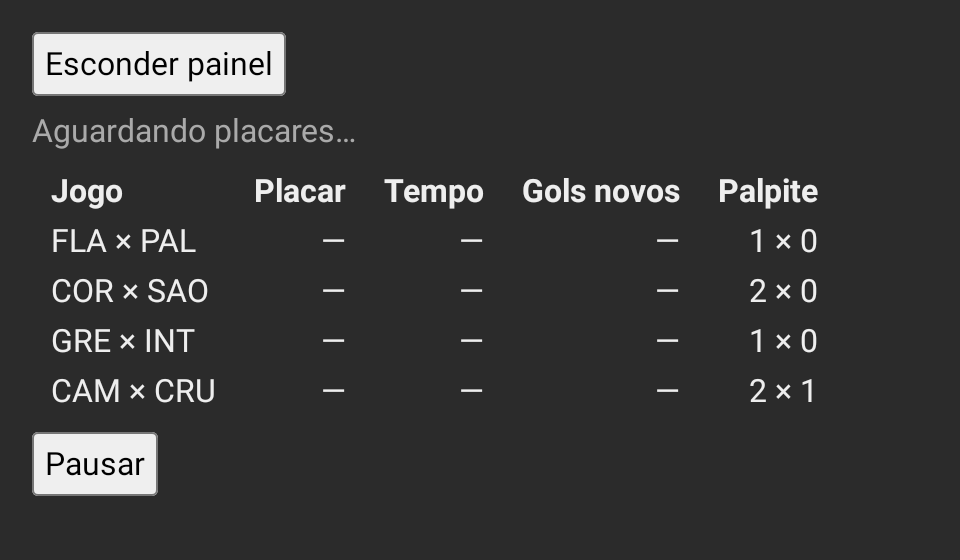
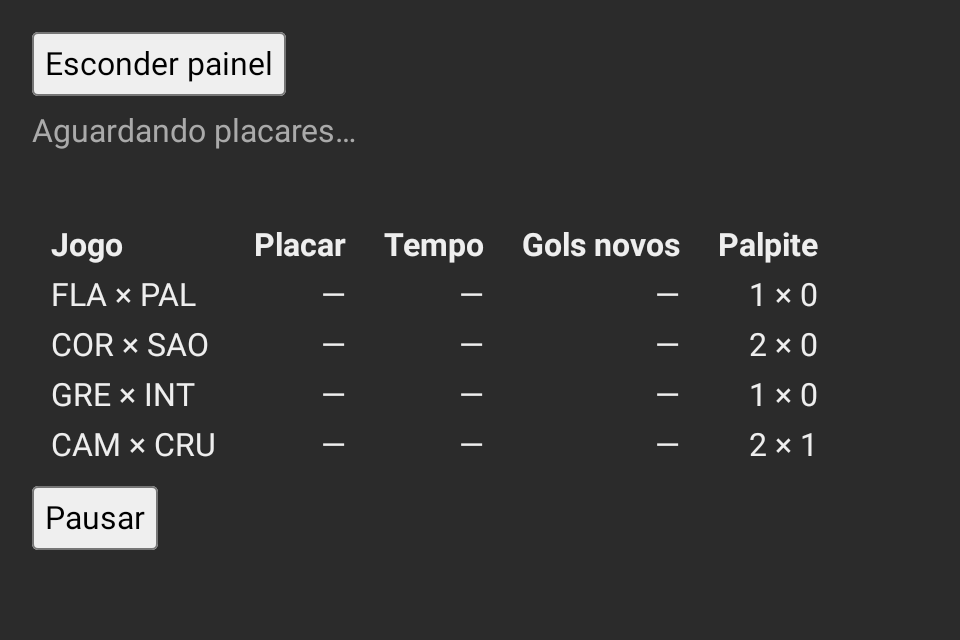
Mostra o "Atualizado há N s" no Compose dos Dados ao vivo
O Compose falha nas verificações do "Atualizado há" que a
especificação passou a pedir: não mostra há quanto tempo chegou o
último lote, e o painel não tem relógio para fechar ao sair da tela.

Como no React, a hora da chegada do lote e a do último tique são
estado (mutableStateOf), e o texto se deriva das duas a cada vez que a
função roda. O relógio fica num DisposableEffect(Unit), separado do
efeito da inscrição, que depende de pausado: como o useEffect com [],
o onDispose o para só quando o painel sai da tela. A hora do tique se
chama ultimoTique, e não agora, para não esconder a função agora() do
domínio. O componente Atualizacao do Estilo.kt tem a cor da Situacao,
numa constante das duas, como a regra .situacao, .atualizacao do
estilo.css.

Como no Views, as cenas passam de 280dp para 320dp de altura nos
quatro testes do módulo, para a linha a mais caber sem cortar o botão
de pausa, e o SegundoPlanoTest e o RotacaoTest conferem também o
relógio. Em segundo plano, o relógio do Compose segue aberto, como a
inscrição, e o README.org da interface passa a dizer o contraste com o
Views pelos dois.

Conferido: os testes do módulo passam, com as 19 verificações; sem o
close() no onDispose do relógio, falham 2, 3, 9 e 11, e sem a hora da
chegada, as quatro do "Atualizado há". As capturas mostram o mesmo que
as do Views; o aviso de que as duas diferem vem do desenho do texto e
já saía no master.

Closes: tcc-51hf

diff --git a/implementacoes/dados-ao-vivo/android-compose/src/test/java/tcc/dadosaovivo/compose/SegundoPlanoTest.kt b/implementacoes/dados-ao-vivo/android-compose/src/test/java/tcc/dadosaovivo/compose/SegundoPlanoTest.kt
@@ -9,15 +9,16 @@ import org.junit.runner.RunWith
 import org.robolectric.annotation.Config
 import tcc.dadosaovivo.RelogioFalso
 import tcc.dadosaovivo.contarInscricoes
+import tcc.dadosaovivo.contarRelogios
 
 // A tela em segundo plano, que a especificação não cobre e em que as duas
 // tecnologias diferem (ADR 0005; docs/achados-das-implementacoes.md): no
 // Compose, o DisposableEffect vive com a composição, que continua com a
-// Activity parada; a inscrição segue aberta, os lotes seguem chegando, e de
-// volta os gols novos contam desde o último lote recebido em segundo plano.
-// No Views, o onStop a fecha.
+// Activity parada; a inscrição e o relógio seguem abertos, os lotes seguem
+// chegando, e de volta os gols novos contam desde o último lote recebido em
+// segundo plano. No Views, o onStop fecha os dois.
 @RunWith(AndroidJUnit4::class)
-@Config(qualifiers = "w480dp-h280dp-xhdpi")
+@Config(qualifiers = "w480dp-h320dp-xhdpi")
 class SegundoPlanoTest {
     @get:Rule(order = 0) val relogio = RelogioFalso()
 
@@ -29,13 +30,24 @@ class SegundoPlanoTest {
     fun segundoPlanoMantemAInscricao() {
         tela.avancar(1000)
         tela.irParaSegundoPlano()
-        val emSegundoPlano = contarInscricoes()
+        val emSegundoPlano = listOf(contarInscricoes(), contarRelogios())
         relogio.avancar(3000)
         tela.voltarDoSegundoPlano()
+        val aoVoltar = tela.atualizacao()
         tela.avancar(1000)
         assertEquals(
-            listOf(1, 1, "FLA × PAL | 1 × 0 | 5' | = | 1 × 0"),
-            listOf(emSegundoPlano, contarInscricoes(), tela.linhas()[0]),
+            listOf(
+                listOf(1, 1),
+                "Atualizado há 0 s",
+                listOf(1, 1),
+                "FLA × PAL | 1 × 0 | 5' | = | 1 × 0",
+            ),
+            listOf(
+                emSegundoPlano,
+                aoVoltar,
+                listOf(contarInscricoes(), contarRelogios()),
+                tela.linhas()[0],
+            ),
         )
     }
 }

diff --git a/implementacoes/dados-ao-vivo/android-compose/src/main/java/tcc/dadosaovivo/compose/MainActivity.kt b/implementacoes/dados-ao-vivo/android-compose/src/main/java/tcc/dadosaovivo/compose/MainActivity.kt
@@ -17,9 +17,12 @@ import androidx.compose.ui.semantics.semantics
 import tcc.dadosaovivo.JOGOS
 import tcc.dadosaovivo.Lote
 import tcc.dadosaovivo.MENSAGENS
+import tcc.dadosaovivo.agora
+import tcc.dadosaovivo.formatarAtualizacao
 import tcc.dadosaovivo.formatarPlacar
 import tcc.dadosaovivo.formatarTempo
 import tcc.dadosaovivo.golsNovos
+import tcc.dadosaovivo.iniciarRelogio
 import tcc.dadosaovivo.inscreverNosPlacares
 import tcc.dadosaovivo.noPalpite
 
@@ -41,6 +44,9 @@ fun PainelDePlacares() {
     // Os dois últimos lotes: o atual dá o placar, o anterior, os gols novos.
     var anterior by remember { mutableStateOf<Lote?>(null) }
     var atual by remember { mutableStateOf<Lote?>(null) }
+    // A hora em que chegou o último lote e a do último tique do relógio.
+    var chegada by remember { mutableStateOf<Long?>(null) }
+    var ultimoTique by remember { mutableStateOf(agora()) }
 
     // Como o useEffect com [pausado]: roda de novo quando pausado se altera,
     // e o onDispose cancela a inscrição antes disso e quando o painel sai da
@@ -50,8 +56,16 @@ fun PainelDePlacares() {
         val inscricao = inscreverNosPlacares { lote ->
             anterior = atual
             atual = lote
+            chegada = agora()
         }
         onDispose { inscricao.close() }
+    }
+
+    // O relógio vive com o painel, e não com a inscrição: como o useEffect
+    // com [], o onDispose o para só quando o painel sai da tela.
+    DisposableEffect(Unit) {
+        val relogio = iniciarRelogio { ultimoTique = agora() }
+        onDispose { relogio.close() }
     }
 
     val situacao =
@@ -64,6 +78,7 @@ fun PainelDePlacares() {
             situacao,
             Modifier.semantics { liveRegion = LiveRegionMode.Polite },
         )
+        Atualizacao(formatarAtualizacao(chegada, ultimoTique))
         Tabela {
             Cabecalho {
                 Celula("Jogo")

diff --git a/implementacoes/dados-ao-vivo/android-compose/src/test/java/tcc/dadosaovivo/compose/RotacaoTest.kt b/implementacoes/dados-ao-vivo/android-compose/src/test/java/tcc/dadosaovivo/compose/RotacaoTest.kt
@@ -9,12 +9,13 @@ import org.junit.runner.RunWith
 import org.robolectric.annotation.Config
 import tcc.dadosaovivo.RelogioFalso
 import tcc.dadosaovivo.contarInscricoes
+import tcc.dadosaovivo.contarRelogios
 
 // A rotação, que a especificação não cobre: o Android recria a Activity, a
-// inscrição da tela antiga fecha, e o painel recomeça como se a interface
-// abrisse, sem a pausa nem os valores, também depois de escondido.
+// inscrição e o relógio da tela antiga fecham, e o painel recomeça como se a
+// interface abrisse, sem a pausa nem os valores, também depois de escondido.
 @RunWith(AndroidJUnit4::class)
-@Config(qualifiers = "w480dp-h280dp-xhdpi")
+@Config(qualifiers = "w480dp-h320dp-xhdpi")
 class RotacaoTest {
     @get:Rule(order = 0) val relogio = RelogioFalso()
 
@@ -28,18 +29,24 @@ class RotacaoTest {
         tela.pausa()
         tela.recriar()
         assertEquals(
-            listOf("Aguardando placares…", "Pausar", 1),
-            listOf(tela.situacao(), tela.textoDaPausa(), contarInscricoes()),
+            listOf("Aguardando placares…", "Pausar", 1, 1),
+            listOf(
+                tela.situacao(),
+                tela.textoDaPausa(),
+                contarInscricoes(),
+                contarRelogios(),
+            ),
         )
 
         tela.alternar()
         tela.recriar()
         assertEquals(
-            listOf(true, "Esconder painel", 1),
+            listOf(true, "Esconder painel", 1, 1),
             listOf(
                 tela.painelNaPagina(),
                 tela.textoDoAlternar(),
                 contarInscricoes(),
+                contarRelogios(),
             ),
         )
     }

diff --git a/implementacoes/dados-ao-vivo/android-compose/src/main/java/tcc/dadosaovivo/compose/Estilo.kt b/implementacoes/dados-ao-vivo/android-compose/src/main/java/tcc/dadosaovivo/compose/Estilo.kt
@@ -35,8 +35,9 @@ import androidx.compose.ui.unit.dp
 import androidx.compose.ui.unit.sp
 
 // Aparência dos Dados ao vivo, no papel do estilo.css da web: a tela só usa
-// os nomes daqui (Tema, Placares, Painel, Situacao, Tabela, Cabecalho, Linha,
-// Celula, Botao), como o className. O tr.alerta vira parâmetro da Linha.
+// os nomes daqui (Tema, Placares, Painel, Situacao, Atualizacao, Tabela,
+// Cabecalho, Linha, Celula, Botao), como o className. O tr.alerta vira
+// parâmetro da Linha.
 
 private val texto = Color(0xFFEEEEEE)
 
@@ -77,10 +78,19 @@ fun Painel(conteudo: @Composable ColumnScope.() -> Unit) {
     Column(verticalArrangement = Arrangement.spacedBy(8.dp), content = conteudo)
 }
 
+// .situacao, .atualizacao: a regra comum às duas.
+private val cinza = Color(0xFFAAAAAA)
+
 // .situacao
 @Composable
 fun Situacao(mensagem: String, modifier: Modifier = Modifier) {
-    Text(mensagem, modifier, color = Color(0xFFAAAAAA))
+    Text(mensagem, modifier, color = cinza)
+}
+
+// .atualizacao
+@Composable
+fun Atualizacao(texto: String) {
+    Text(texto, color = cinza)
 }
 
 // O fundo que cada linha põe antes das células, para a Tabela achar onde a

diff --git a/implementacoes/dados-ao-vivo/android-views/src/test/java/tcc/dadosaovivo/views/SegundoPlanoTest.kt b/implementacoes/dados-ao-vivo/android-views/src/test/java/tcc/dadosaovivo/views/SegundoPlanoTest.kt
@@ -15,7 +15,7 @@ import tcc.dadosaovivo.contarRelogios
 // tecnologias diferem (ADR 0005; docs/achados-das-implementacoes.md): no
 // Views, o onStop fecha a inscrição e o relógio; de volta, o "Atualizado há"
 // diz já a idade do último lote, e os gols novos contam desde o último lote
-// que o usuário viu. No Compose, a inscrição continua.
+// que o usuário viu. No Compose, a inscrição e o relógio continuam.
 @RunWith(AndroidJUnit4::class)
 @Config(qualifiers = "w480dp-h320dp-xhdpi")
 class SegundoPlanoTest {

diff --git a/implementacoes/dados-ao-vivo/android-compose/src/test/java/tcc/dadosaovivo/compose/CenasTest.kt b/implementacoes/dados-ao-vivo/android-compose/src/test/java/tcc/dadosaovivo/compose/CenasTest.kt
@@ -14,7 +14,7 @@ import tcc.dadosaovivo.RelogioFalso
 // captura da web. O placar depende do relógio falso, que começa às 10:00:00
 // UTC; cada cena esconde e mostra o painel, para a inscrição começar com ela.
 @RunWith(AndroidJUnit4::class)
-@Config(qualifiers = "w480dp-h280dp-xhdpi")
+@Config(qualifiers = "w480dp-h320dp-xhdpi")
 class CenasTest {
     @get:Rule(order = 0) val relogio = RelogioFalso()
 

diff --git a/implementacoes/dados-ao-vivo/android-compose/src/test/java/tcc/dadosaovivo/compose/TesteDeConformidade.kt b/implementacoes/dados-ao-vivo/android-compose/src/test/java/tcc/dadosaovivo/compose/TesteDeConformidade.kt
@@ -16,7 +16,7 @@ import tcc.dadosaovivo.contarRelogios
 // de 2026-10-12 e só anda com avancar(ms). Falha listando todas as que não
 // passaram.
 @RunWith(AndroidJUnit4::class)
-@Config(qualifiers = "w480dp-h280dp-xhdpi")
+@Config(qualifiers = "w480dp-h320dp-xhdpi")
 class TesteDeConformidade {
     @get:Rule(order = 0) val relogio = RelogioFalso()
 
